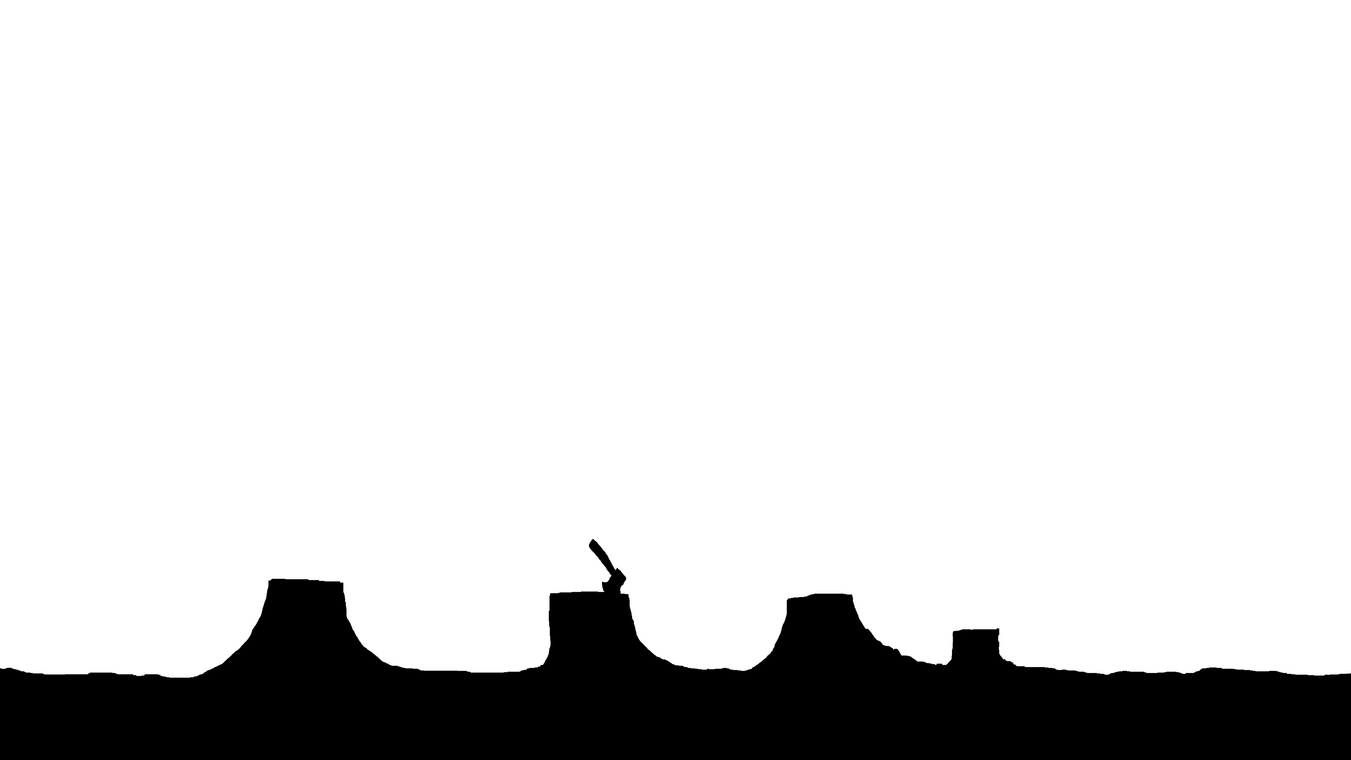
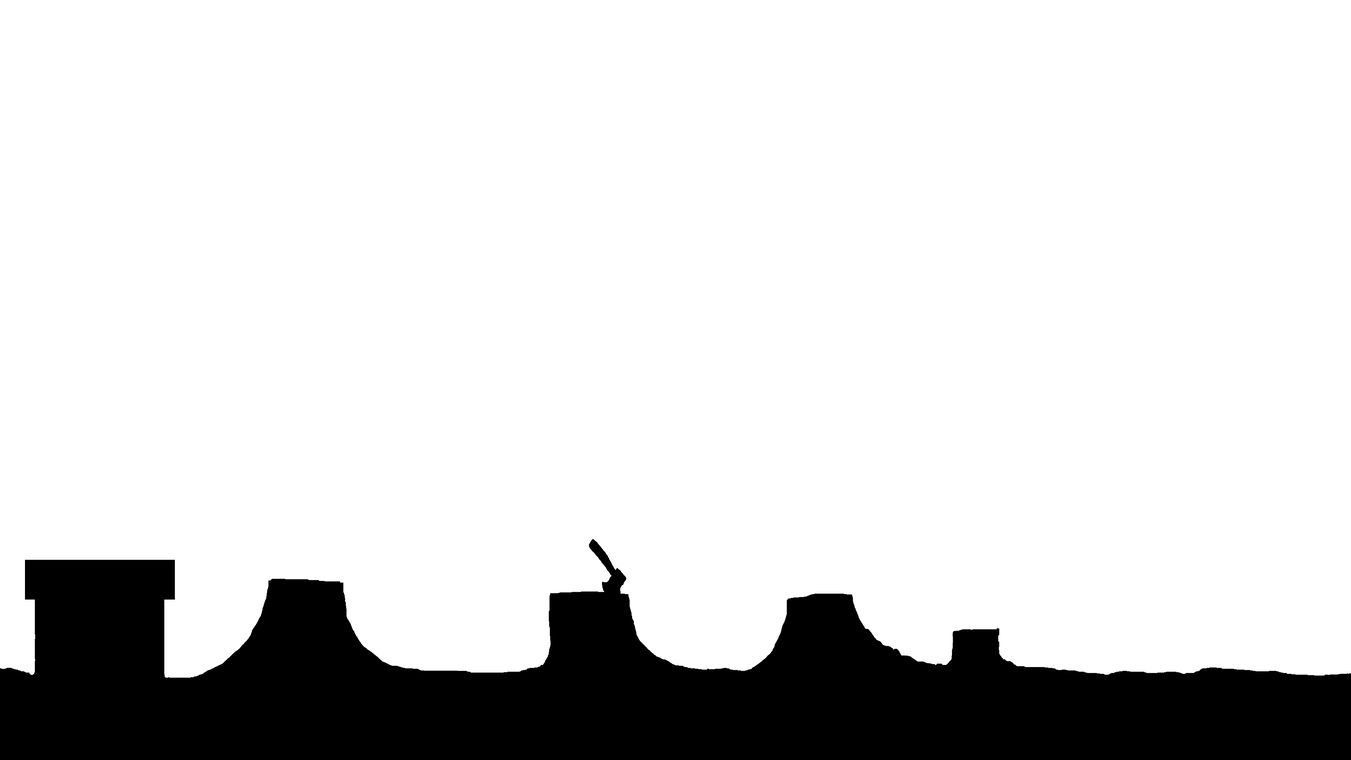
Replace main/10, now has "Mario tube" that goes down to Wuzworld even though that's up.
Consequently, levels are meaningless, and I wasn't using them anyway, so removed references to them.

Changed region(s): [[0.0, 0.7263, 0.1554, 0.9079]]

diff --git a/shadowtheatre.js b/shadowtheatre.js
@@ -42,6 +42,7 @@ const TRANSITIONS = {
 		[1600, -1, "pirate", 2500],
 		[6400, -1, "pirate", 4700],
 		[6400, 1, "disco", 0],
+		[11480, -1, "wuzworld", 0], // NB Mario tube, goes DOWN but to a world that is UP from elsewhere in the map
 		[12800, 1, "giant", 0],
 		[15600, -1, "dragon", 1000],
 		[17200, 1, "wuzworld", 0],
@@ -83,7 +84,6 @@ var wasIdle = true; // Whether no inputs were read on the last run through - for
 
 var anyInputOn = false; // Is anything being pressed or the joystick being moved?
 var anyButtonOn = false; // Is an actual button being pressed?
-var curLevel = 0; // Which level are we on? May not actually need to know this...
 var curArea = "main"; // Which area (contiguous left-right set of images) are we in?
 var permittedVertical = []; // Whether we can go up or down (or both) from the current location
 
@@ -385,7 +385,6 @@ function processActions(raf=true) {
     		// let keyframes = [ { "marginLeft": -sliderPos + "px"} ];
     		// elSlider.animate(keyframes, SCROLL_ANIMATION_OPTIONS);
   	}
-	dbgout += "<br>Level " + curLevel + ", Area: " + curArea;
   	dbgout += "<br>sliderPos: " + sliderPos;
 	
 	// Find out if we are near a transition point
